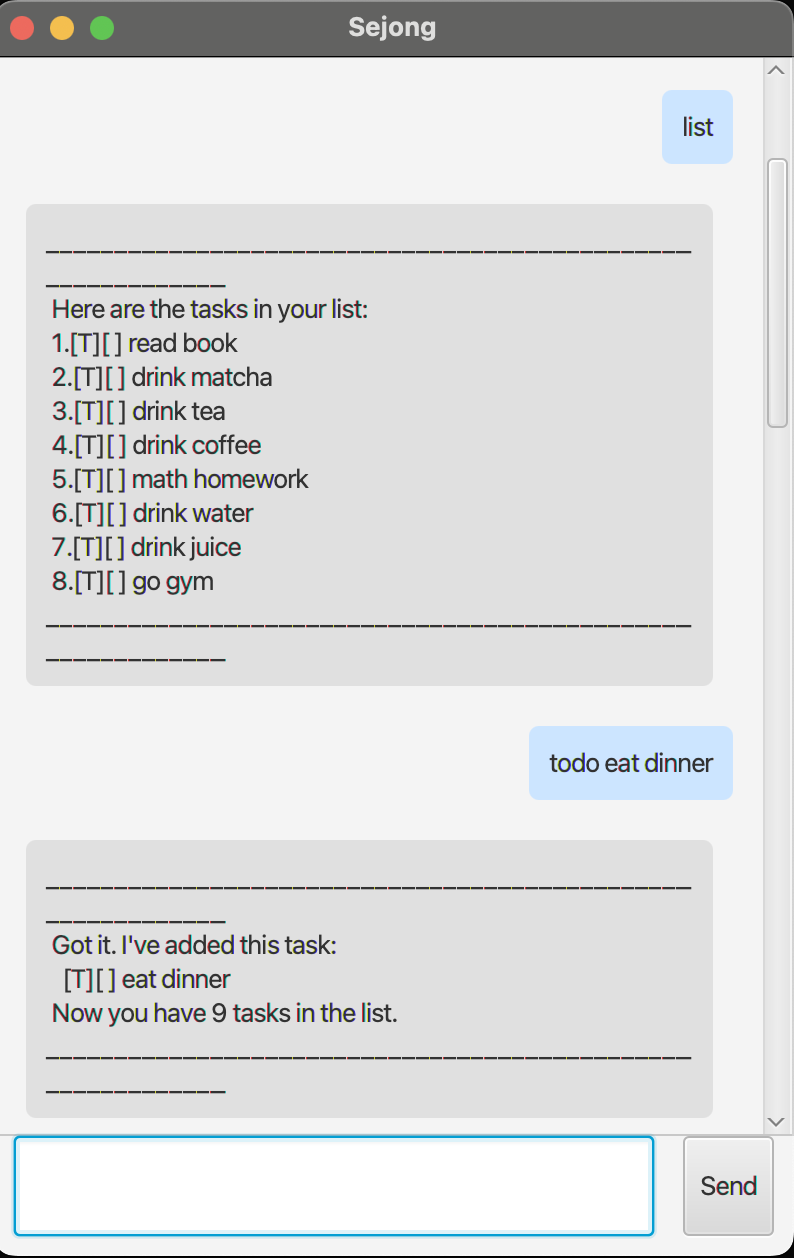
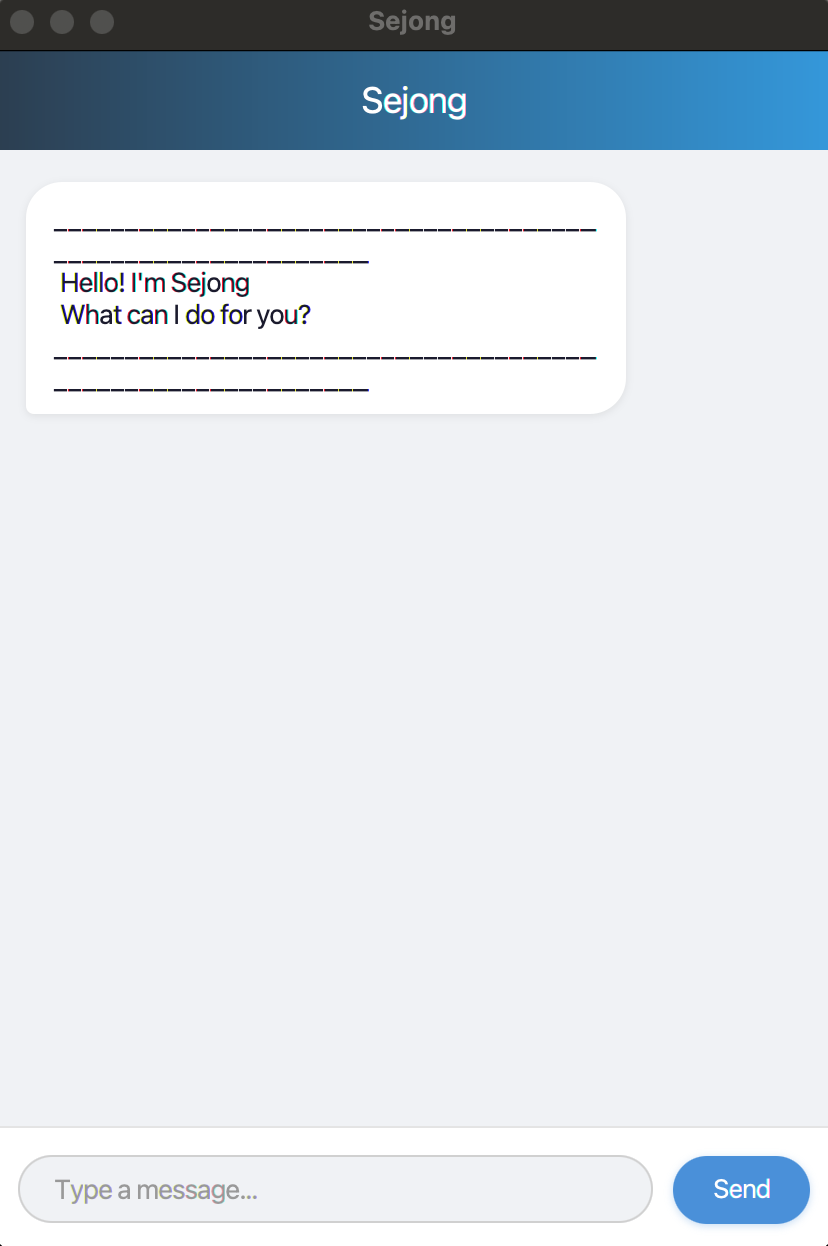
Update UI image

diff --git a/src/main/resources/view/application.css b/src/main/resources/view/application.css
@@ -1,10 +1,141 @@
-/* Minimal styling so user and Sejong dialogs are distinct */
+.root,
+.root-pane,
+.root * {
+    -fx-focus-color: transparent;
+    -fx-faint-focus-color: transparent;
+}
+
+.root-pane {
+    -fx-background-color: #f0f2f5;
+}
+
+.header {
+    -fx-background-color: linear-gradient(to right, #2c3e50, #3498db);
+    -fx-padding: 0 16 0 16;
+    -fx-effect: dropshadow(gaussian, rgba(0, 0, 0, 0.18), 10, 0, 0, 2);
+}
+
+.header-title {
+    -fx-text-fill: white;
+    -fx-font-size: 18px;
+    -fx-font-weight: bold;
+}
+
+.chat-scroll-pane {
+    -fx-background: #f0f2f5;
+    -fx-background-color: #f0f2f5;
+    -fx-border-color: transparent;
+    -fx-focus-color: transparent;
+    -fx-faint-focus-color: transparent;
+}
+
+.chat-scroll-pane > .viewport {
+    -fx-background-color: #f0f2f5;
+}
+
+.chat-scroll-pane .scroll-bar:vertical {
+    -fx-background-color: transparent;
+    -fx-pref-width: 8;
+}
+
+.chat-scroll-pane .scroll-bar:vertical .track {
+    -fx-background-color: transparent;
+    -fx-border-color: transparent;
+}
+
+.chat-scroll-pane .scroll-bar:vertical .thumb {
+    -fx-background-color: #c0c0c0;
+    -fx-background-radius: 4;
+    -fx-background-insets: 0;
+}
+
+.chat-scroll-pane .scroll-bar:vertical .thumb:hover {
+    -fx-background-color: #a0a0a0;
+}
+
+.chat-scroll-pane .scroll-bar .increment-button,
+.chat-scroll-pane .scroll-bar .decrement-button {
+    -fx-background-color: transparent;
+    -fx-border-color: transparent;
+    -fx-padding: 0;
+}
+
+.chat-scroll-pane .scroll-bar .increment-arrow,
+.chat-scroll-pane .scroll-bar .decrement-arrow {
+    -fx-shape: "";
+    -fx-padding: 0;
+}
+
+.dialog-container {
+    -fx-background-color: #f0f2f5;
+}
+
+.user-dialog,
+.sejong-dialog {
+    -fx-focus-color: transparent;
+    -fx-faint-focus-color: transparent;
+}
+
 .user-dialog {
-    -fx-background-color: #cce5ff;
-    -fx-background-radius: 5;
+    -fx-background-color: #4a90d9;
+    -fx-text-fill: white;
+    -fx-background-radius: 18 18 4 18;
+    -fx-font-size: 13.5px;
+    -fx-effect: dropshadow(gaussian, rgba(0, 0, 0, 0.1), 6, 0, 0, 1);
+    -fx-border-width: 0;
+    -fx-border-color: transparent;
 }
 
 .sejong-dialog {
-    -fx-background-color: #e0e0e0;
-    -fx-background-radius: 5;
+    -fx-background-color: white;
+    -fx-text-fill: #1a1a2e;
+    -fx-background-radius: 18 18 18 4;
+    -fx-font-size: 13.5px;
+    -fx-effect: dropshadow(gaussian, rgba(0, 0, 0, 0.08), 6, 0, 0, 1);
+    -fx-border-width: 0;
+    -fx-border-color: transparent;
+}
+
+.input-area {
+    -fx-background-color: white;
+    -fx-border-color: #e4e4e4;
+    -fx-border-width: 1 0 0 0;
+}
+
+.chat-input {
+    -fx-background-color: #f0f2f5;
+    -fx-background-radius: 20;
+    -fx-border-color: #d0d0d0;
+    -fx-border-radius: 20;
+    -fx-border-width: 1;
+    -fx-padding: 8 16 8 16;
+    -fx-font-size: 13.5px;
+    -fx-prompt-text-fill: #999;
+    -fx-focus-color: transparent;
+    -fx-faint-focus-color: transparent;
+}
+
+.chat-input:focused {
+    -fx-border-color: #4a90d9;
+    -fx-background-color: white;
+}
+
+.send-button {
+    -fx-background-color: #4a90d9;
+    -fx-text-fill: white;
+    -fx-font-size: 13px;
+    -fx-font-weight: bold;
+    -fx-background-radius: 20;
+    -fx-padding: 8 20 8 20;
+    -fx-cursor: hand;
+    -fx-effect: dropshadow(gaussian, rgba(74, 144, 217, 0.3), 6, 0, 0, 1);
+}
+
+.send-button:hover {
+    -fx-background-color: #357abd;
+}
+
+.send-button:pressed {
+    -fx-background-color: #2d6aa3;
+    -fx-effect: none;
 }

diff --git a/src/main/java/sejong/DialogBox.java b/src/main/java/sejong/DialogBox.java
@@ -10,19 +10,21 @@ import javafx.scene.layout.Region;
  * A dialog box for the chat window, showing either user or Sejong messages.
  */
 public class DialogBox extends HBox {
-    private static final int WRAP_WIDTH = 350;
-    private static final int PADDING = 10;
-    private static final int SPACING = 10;
+    private static final int WRAP_WIDTH = 300;
+    private static final int H_PADDING = 14;
+    private static final int V_PADDING = 10;
+    private static final int SPACING = 8;
 
     private DialogBox(Label label, boolean isUser) {
         label.setWrapText(true);
         label.setMaxWidth(WRAP_WIDTH);
         label.setMinHeight(Region.USE_PREF_SIZE);
-        label.setPadding(new Insets(PADDING));
+        label.setPadding(new Insets(V_PADDING, H_PADDING, V_PADDING, H_PADDING));
+        label.setFocusTraversable(false);
 
         setSpacing(SPACING);
         setAlignment(isUser ? Pos.TOP_RIGHT : Pos.TOP_LEFT);
-        setPadding(new Insets(5));
+        setPadding(new Insets(2));
 
         if (isUser) {
             label.getStyleClass().add("user-dialog");

diff --git a/src/main/java/sejong/Main.java b/src/main/java/sejong/Main.java
@@ -30,8 +30,8 @@ public class Main extends Application {
             scene.getStylesheets().add(Main.class.getResource("/view/application.css").toExternalForm());
             stage.setScene(scene);
             stage.setTitle("Sejong");
-            stage.setMinWidth(400);
-            stage.setMinHeight(400);
+            stage.setMinWidth(360);
+            stage.setMinHeight(450);
             stage.show();
             stage.toFront();
             stage.requestFocus();

diff --git a/src/main/java/sejong/MainWindow.java b/src/main/java/sejong/MainWindow.java
@@ -36,6 +36,7 @@ public class MainWindow {
      */
     @FXML
     public void initialize() {
+        scrollPane.setVvalue(0.0);
         dialogContainer.heightProperty().addListener((observable) -> scrollPane.setVvalue(1.0));
         userInput.setOnKeyPressed(event -> {
             if (event.getCode() == KeyCode.ENTER) {
